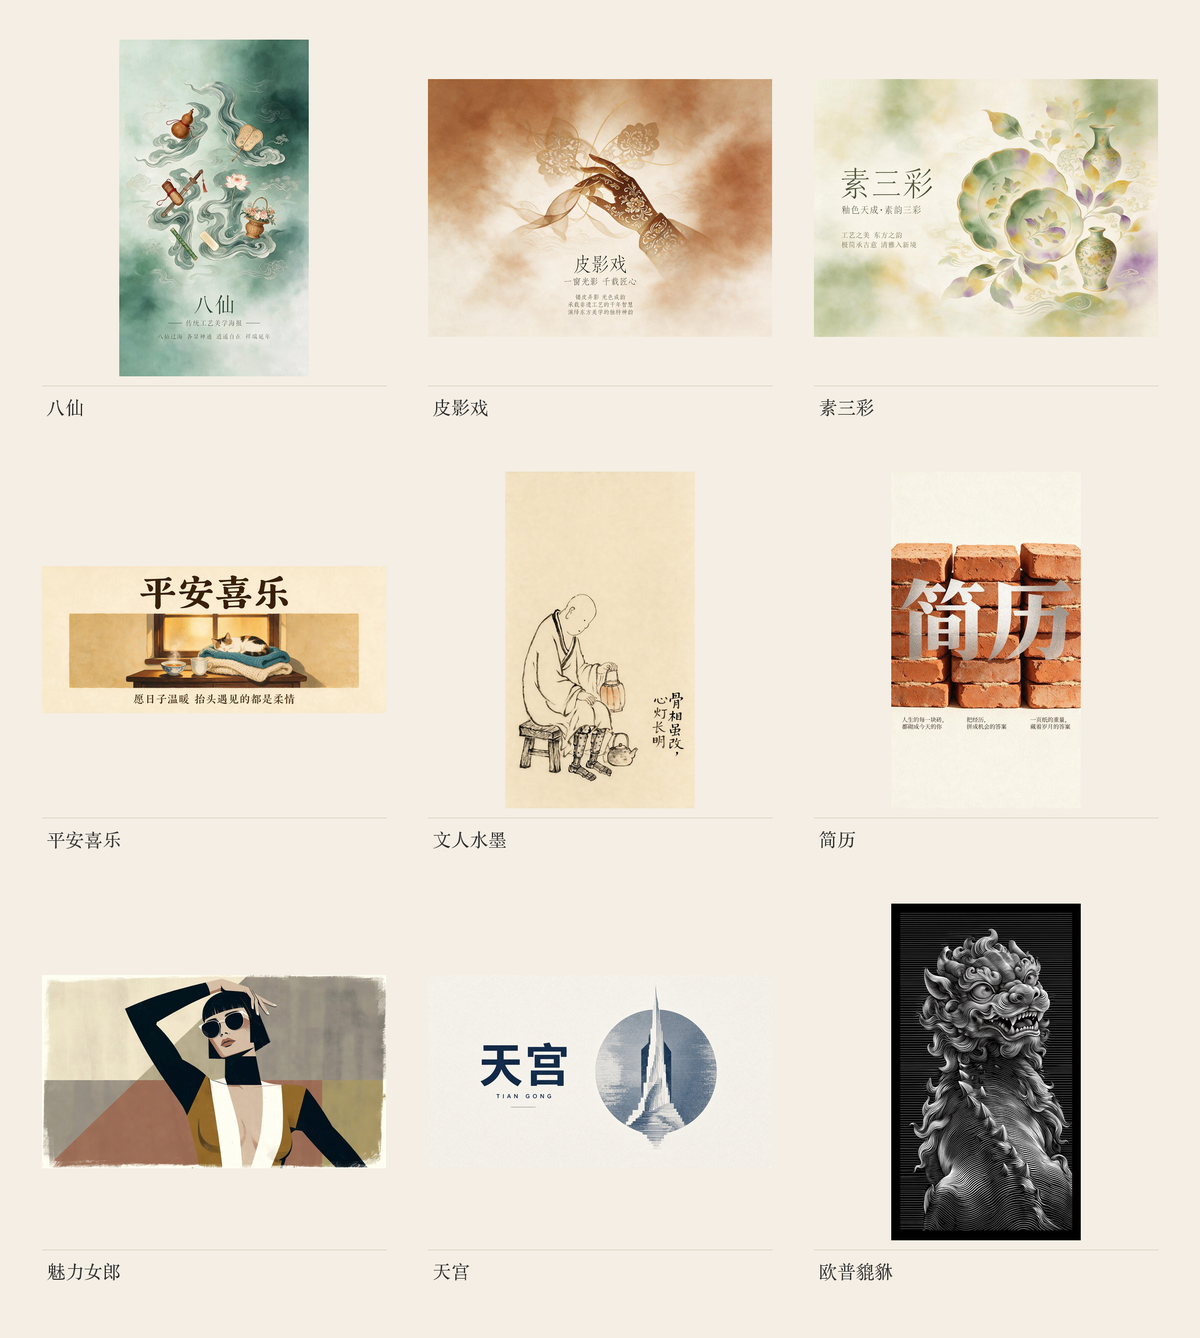
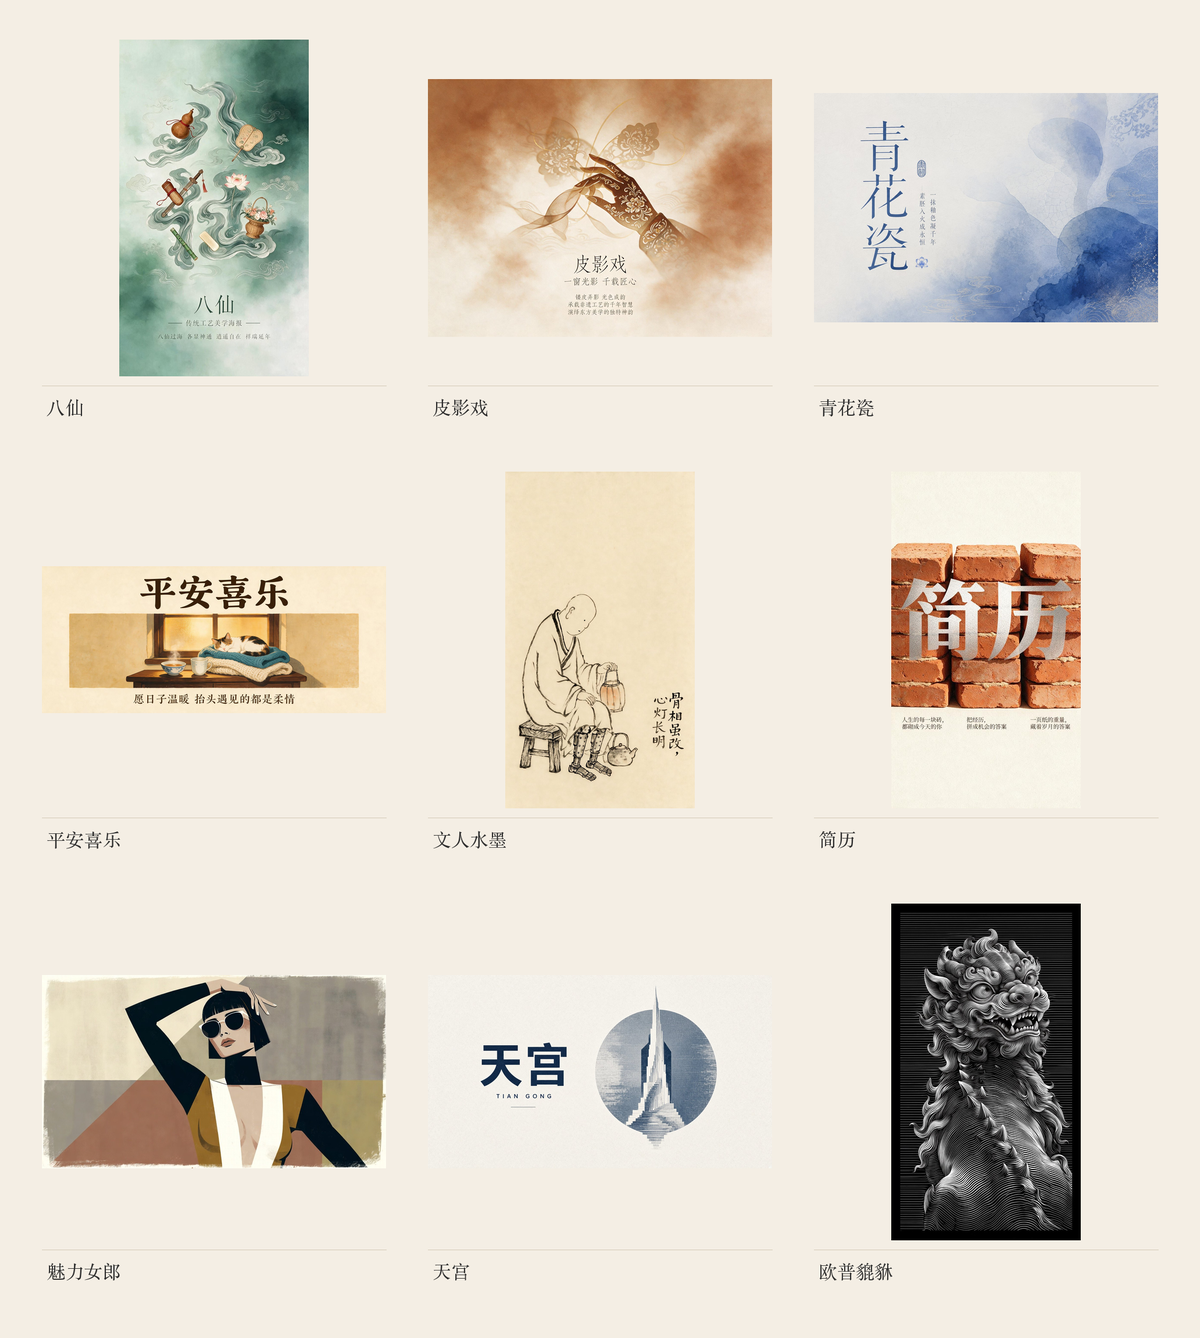
第二宫格去掉素三彩，换成青花瓷

Changed region(s): [[0.6783, 0.0613, 0.9867, 0.2758]]

diff --git a/README.md b/README.md
@@ -39,12 +39,12 @@
 
 家族格子之外，还有这些成图。点图看原图。
 
-![更多成图：八仙、皮影戏、素三彩、平安喜乐、文人水墨、简历、魅力女郎、天宫、欧普貔貅](./assets/readme/more-grid.png)
+![更多成图：八仙、皮影戏、青花瓷、平安喜乐、文人水墨、简历、魅力女郎、天宫、欧普貔貅](./assets/readme/more-grid.png)
 
 <p align="center">
 <a href="./gallery/more/baxian.jpg">八仙</a> ·
 <a href="./gallery/more/piying.jpg">皮影戏</a> ·
-<a href="./gallery/more/sucancai.jpg">素三彩</a> ·
+<a href="./gallery/more/qinghua.jpg">青花瓷</a> ·
 <a href="./gallery/more/pingan.jpg">平安喜乐</a> ·
 <a href="./gallery/more/wenren.jpg">文人水墨</a> ·
 <a href="./gallery/more/jianli.jpg">简历</a> ·

diff --git a/gallery/README.md b/gallery/README.md
@@ -50,9 +50,9 @@
 
 ![皮影戏](./more/piying.jpg)
 
-### 素三彩
+### 青花瓷
 
-![素三彩](./more/sucancai.jpg)
+![青花瓷](./more/qinghua.jpg)
 
 ### 平安喜乐
 
